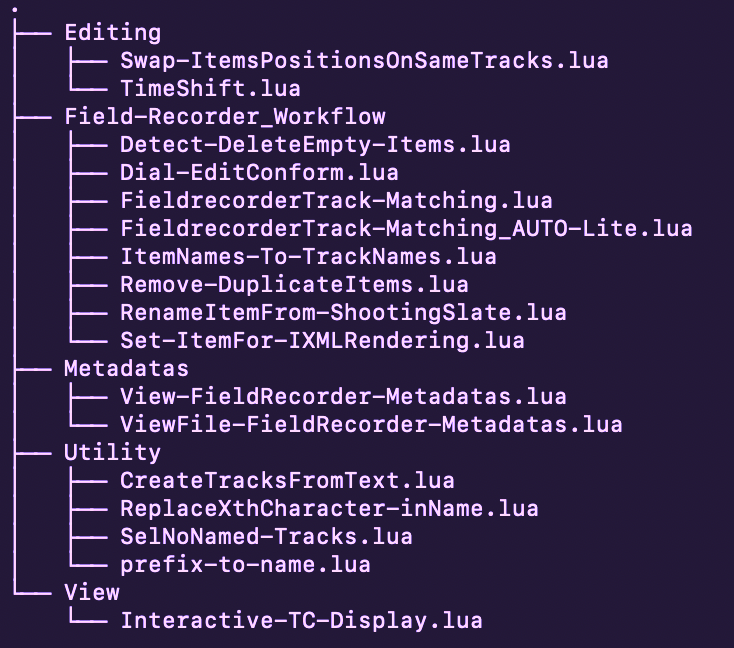
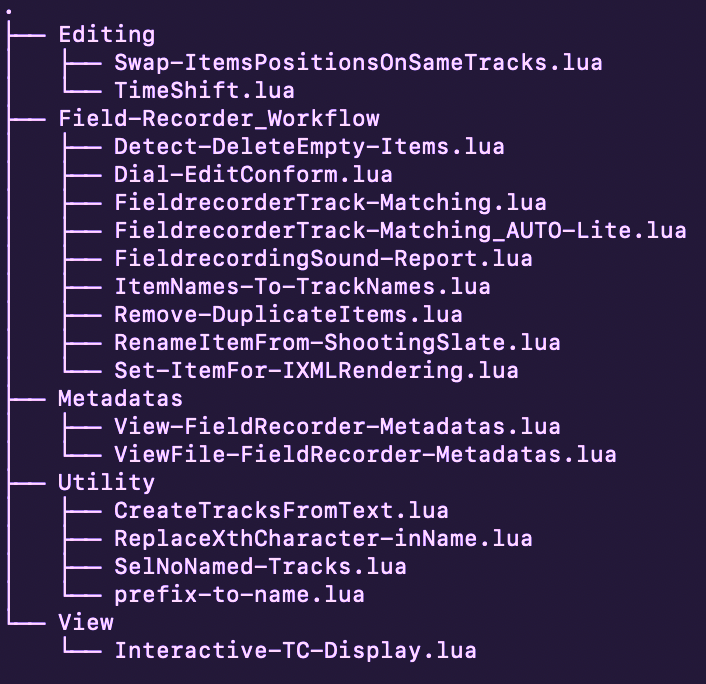
Mise à jour ReaPack

Changed region(s): [[0.0, 0.0, 0.966, 0.9877]]

diff --git a/README.md b/README.md
@@ -134,11 +134,19 @@ ReaImGui scripts for REAPER that may be executed after an AAF import and match t
   <img src="PICTURES/Fieldrecorder-Tracks.png" alt="Overview of 'Fieldrecorder-Tracks'" width="800" />
 </p> 
 
-## 3. **Dial-EditConform** comes after RAW Files Matching to explode and organize Itemsin Tracks by Name
+## 3. **Dial-EditConform** comes after RAW Files Matching to explode and organize Items in Tracks by Name
 (https://github.com/Geeksound/Reaper_Scripts-Mariow/blob/mainField-Recorder_Workflow/Dial-EditConform.lua)  
 
 <p align="center">
   <img src="PICTURES/Dial-EditConform.png" alt="Overview of 'Dial-EditConform'" width="800" />
+</p> 
+
+## 4. **FieldrecordingSound-Report** Record the Dialog Lines on SHOOTING film via Dante  
+from Field-Recorders like ****Cantar** or **Sound Devices** and edit a Sound-Report for Post-Production
+(https://github.com/Geeksound/Reaper_Scripts-Mariow/blob/mainField-Recorder_Workflow/FieldrecordingSound-Report.lua)  
+
+<p align="center">
+  <img src="PICTURES/FieldrecordingSound-Report.png" alt="Overview of 'FieldrecordingSound-Report'" width="800" />
 </p> 
 
 ## Utilities
